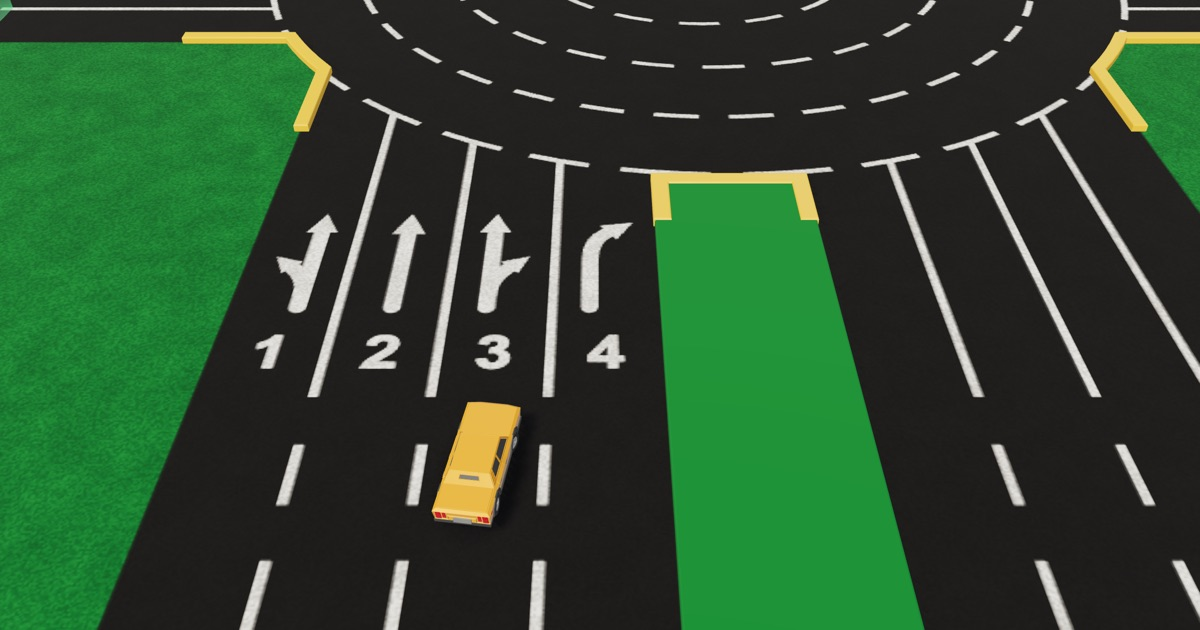
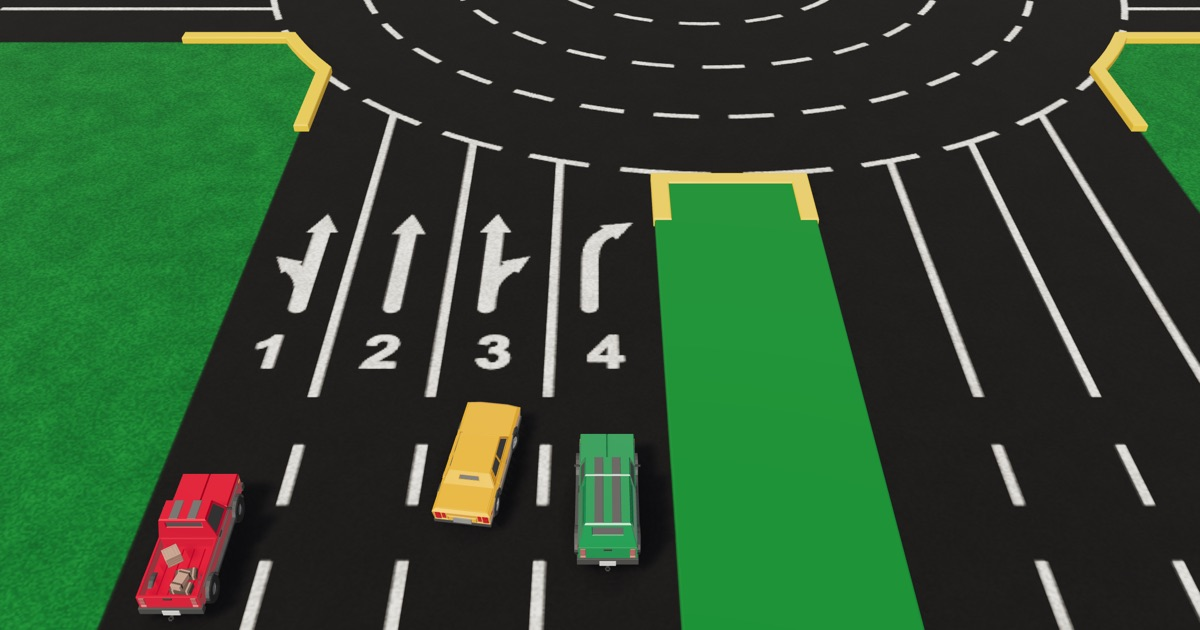
feat: show all three cars in the board picture
The board picture and its social card now show the pickup (red) and the
SUV (Kenya green) beside the yellow saloon, so every car a learner can
pick is in the shot.

Changed region(s): [[0.0925, 0.7238, 0.2158, 0.9952], [0.4625, 0.6635, 0.555, 0.9048], [0.0, 0.0, 0.0308, 0.0302]]

diff --git a/app/routes/tools/og.tsx b/app/routes/tools/og.tsx
@@ -409,8 +409,8 @@ const BoardTable = React.lazy(() => import("~/components/board/board-table"));
  * shows every car a learner can pick. Lane and distance from the roundabout.
  */
 const STILL_CARS = [
-  { car: "pickup", paint: "#2456b4", plate: "KDA 101B", lane: 1, along: 41 },
-  { car: "suv", paint: "#dfe3e8", plate: "KCB 442T", lane: 4, along: 39.5 },
+  { car: "pickup", paint: "#c8102e", plate: "KDA 101B", lane: 1, along: 41 },
+  { car: "suv", paint: "#1e8449", plate: "KCB 442T", lane: 4, along: 39.5 },
 ] as const;
 
 const STILL = {
